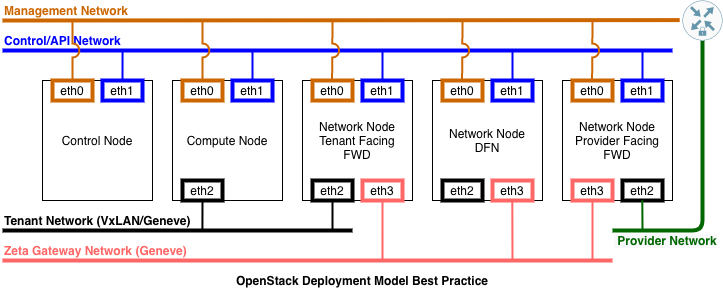
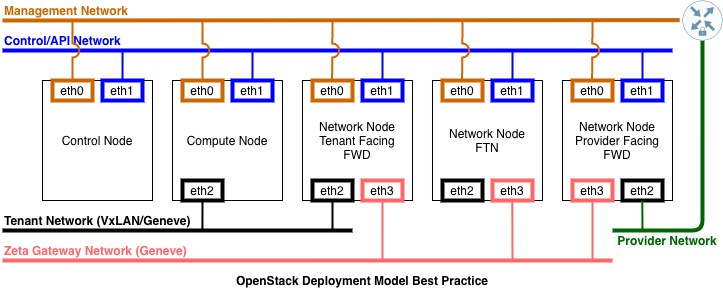
Zeta SDD: change DFN to FTN to be consistent

diff --git a/docs/design/Zeta_System_Design.md b/docs/design/Zeta_System_Design.md
@@ -235,7 +235,7 @@ Next is a list of abbreviations used within this document.
 | ZGS          | Zeta Gateway Service                                                       |
 | vIP          | Service Virtual IP                                                         |
 | FWD          | Zeta Gateway Service Forwarding Node                                       |
-| DFN          | Zeta Gateway Service                                                       |
+| FTN          | Zeta Gateway Service                                                       |
 | OVS          | Open vSwitch                                                               |
 | VM           | Tenant Virtual Compute Instance, including Virtual Machine, Container etc. |
 
@@ -525,7 +525,7 @@ nodes, it will register the Network node to Zeta Control Plane with its
 node information and Zeta Gateway Cluster assignment. After the
 registration, Zeta Control Plane will provision the Network Node as
 either Forwarding node (FWD for short) or Distributed Flow Table node
-(DFN for short) or both, depends on hardware capabilities and scaling
+(FTN for short) or both, depends on hardware capabilities and scaling
 demand for the particular Network node type. To simplify the
 architecture description, we will view FWD and FTN as separate nodes
 from now on even though a single Zeta Network node can serve as both FWD
@@ -544,10 +544,10 @@ main responsibilities for FWD nodes are:
 
 3.  Lookup flow cache for Tenant traffic
     
-    1.  If not found in local cache, query from DFN which may triggering
-        flow creation on DFN
+    1.  If not found in local cache, query from FTN which may triggering
+        flow creation on FTN
     
-    2.  Add flow entry returned from DFN into local cache
+    2.  Add flow entry returned from FTN into local cache
 
 4.  Act on the packet based on verdict from the matching flow entry
     cache:
@@ -648,7 +648,7 @@ By definition, ZGC follows administrative rules listed below:
 
   - A Zeta Network Node is administratively assigned to one of the ZGCs
 
-  - A ZGC will have at least two FWD nodes deployed with one or many DFN
+  - A ZGC will have at least two FWD nodes deployed with one or many FTN
     nodes
 
   - A ZGC will provide exclusive Zeta Gateway Service to one or many
@@ -669,9 +669,9 @@ can be hundreds even tens of thousands compute nodes served by each ZGC.
 A novel solution for this problem has been developed and the detail will
 be available in the short future.
 
-##### 4.1.3 DFN And DFT
+##### 4.1.3 FTN And DFT
 
-DFN nodes are internal Zeta Network Nodes within a ZGC. DFN offers
+FTN nodes are internal Zeta Network Nodes within a ZGC. FTN offers
 lookaside assistance to FWD hence they are not required to be attached
 to the same Tenant network as Compute Nodes. Inter-connecting DFWs and
 FDNs on an Isolated network avoids interfering between ZGC internal
@@ -679,7 +679,7 @@ traffic with Tenant traffics. It also allows fully customized
 communication scheme without any compatibility issues with Compute Nodes
 if needed, such as enabling Jumbo frame.
 
-The main responsibilities for DFN nodes are:
+The main responsibilities for FTN nodes are:
 
 1.  Building block for Distributed Flow Table (DFT for short), refer to
     \[1\] for DFT details
@@ -942,7 +942,7 @@ For the SBI gRPC channel between Zeta control plane and Zeta Network
 node, authentication and encryption can be enabled as an administrative
 configuration option.
 
-For intra ZGC internal communication between FWDs and DFNs, the network
+For intra ZGC internal communication between FWDs and FTNs, the network
 can be made totally isolated and authentication/encryption can be
 enabled as configuration option.
 
@@ -1020,7 +1020,7 @@ Best Practice
 
 3.  Minimal requirements for Zeta network nodes:
     
-    1.  Minimal 6 nodes, 2 host FWD and 4 host DFN
+    1.  Minimal 6 nodes, 2 host FWD and 4 host FTN
     
     2.  Minimal hardware configuration:
         
